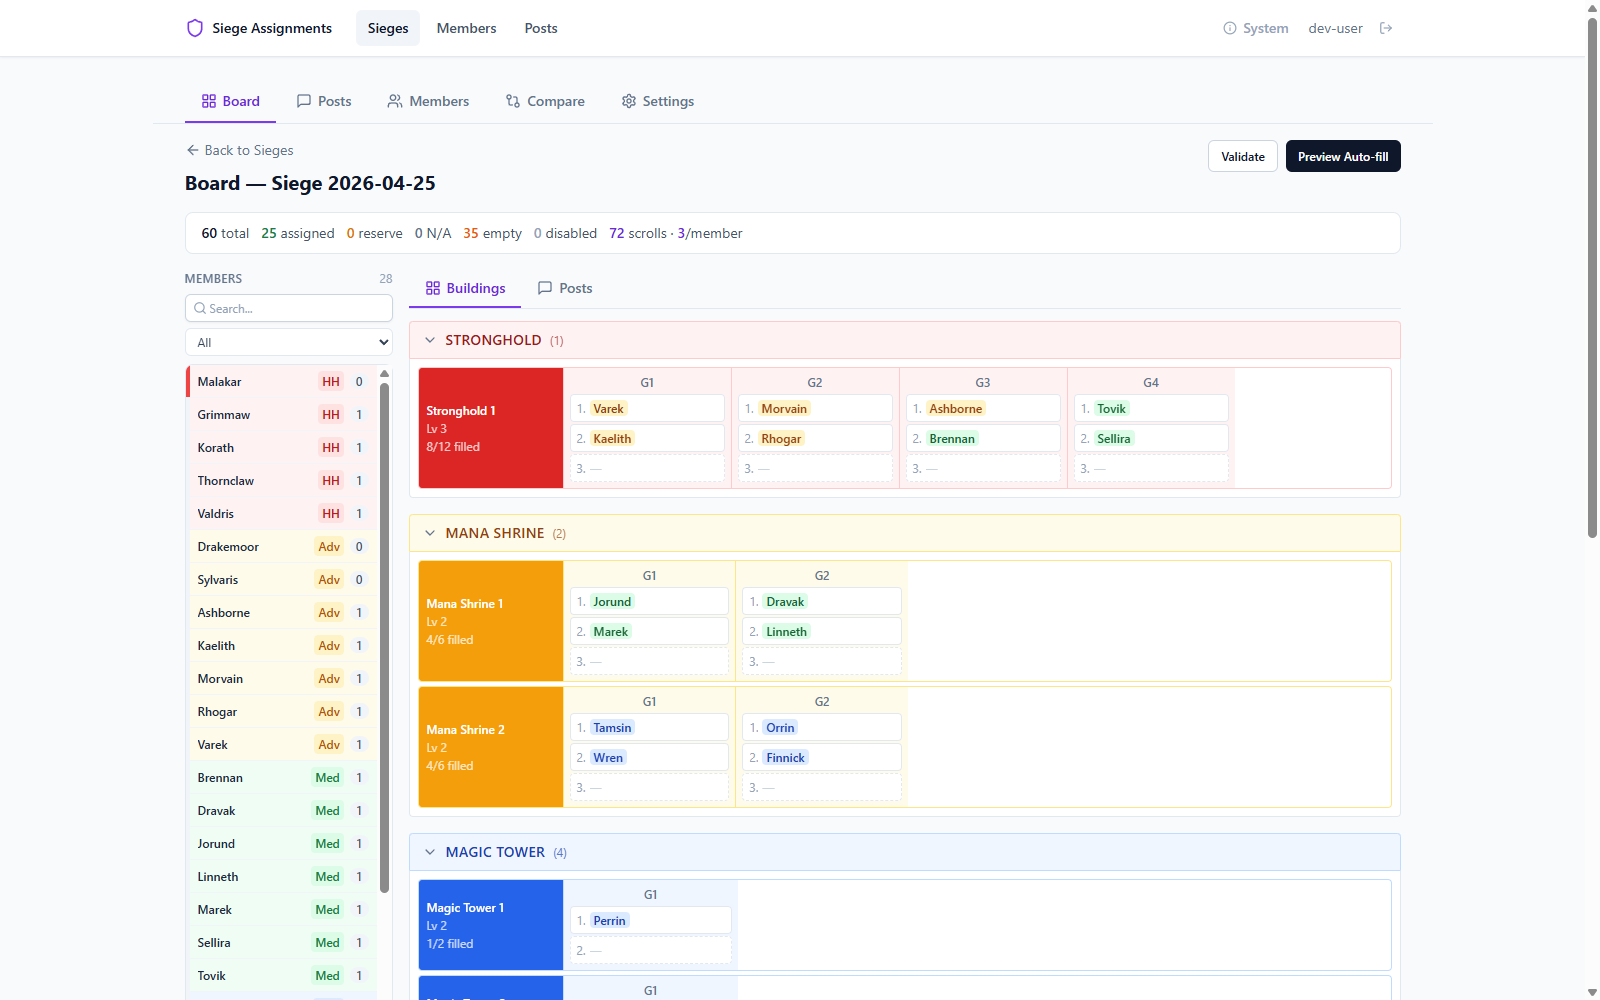
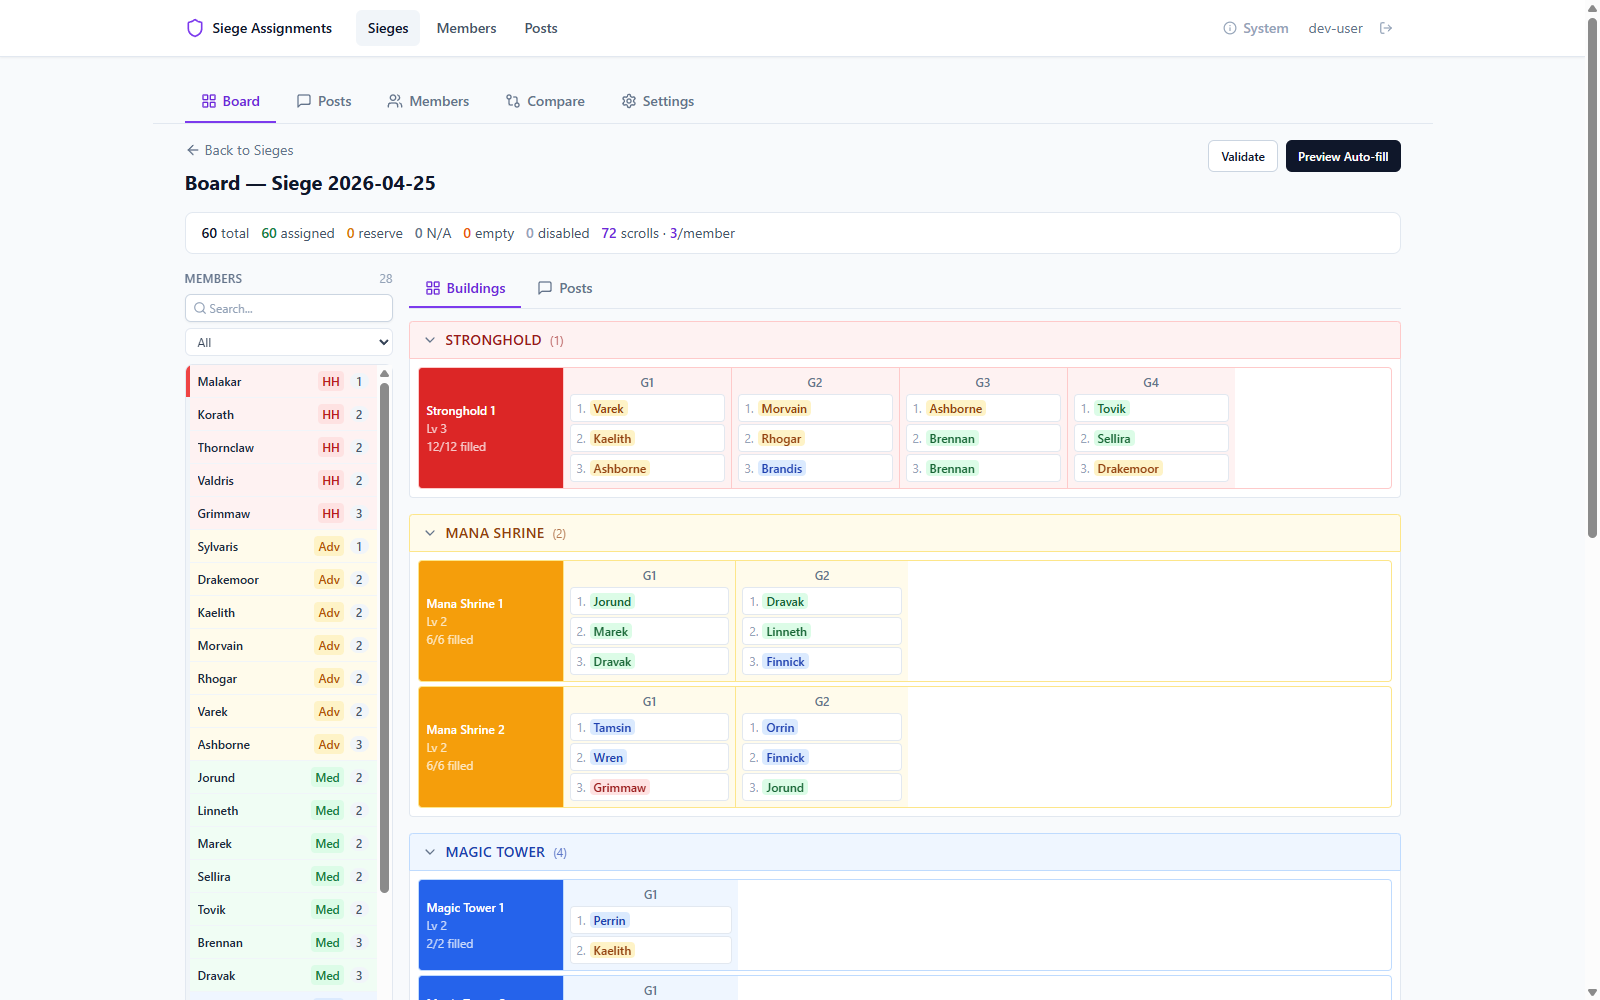
fix: retake all screenshots with full 60/60 assignments and remove notification slide
- Regenerated all carousel screenshots with every position filled
- Removed notification tracking placeholder slide (no image yet)
- Updated carousel subtitle from "Seven" to "Six" screens
- Retook hero-board and og-image with full assignments

diff --git a/frontend/src/components/Carousel.tsx b/frontend/src/components/Carousel.tsx
@@ -65,7 +65,7 @@ export default function Carousel({ slides }: CarouselProps) {
         See the workflow
       </h3>
       <p className="mb-6 text-sm text-slate-500">
-        Seven screens that cover the full workflow — from assignment to notification.
+        Six screens that cover the full workflow — from assignment to notification.
       </p>
 
       {/* Viewport — tabIndex makes it focusable so onKeyDown fires */}

diff --git a/frontend/src/pages/LandingPage.tsx b/frontend/src/pages/LandingPage.tsx
@@ -60,11 +60,6 @@ const SLIDES: CarouselSlide[] = [
     title: "Generated Discord image",
     description: "The PNG posted to your channel",
   },
-  {
-    placeholder: "Notification tracking",
-    title: "Notification tracking",
-    description: "DM batch delivery status",
-  },
 ];
 
 // ---------------------------------------------------------------------------
